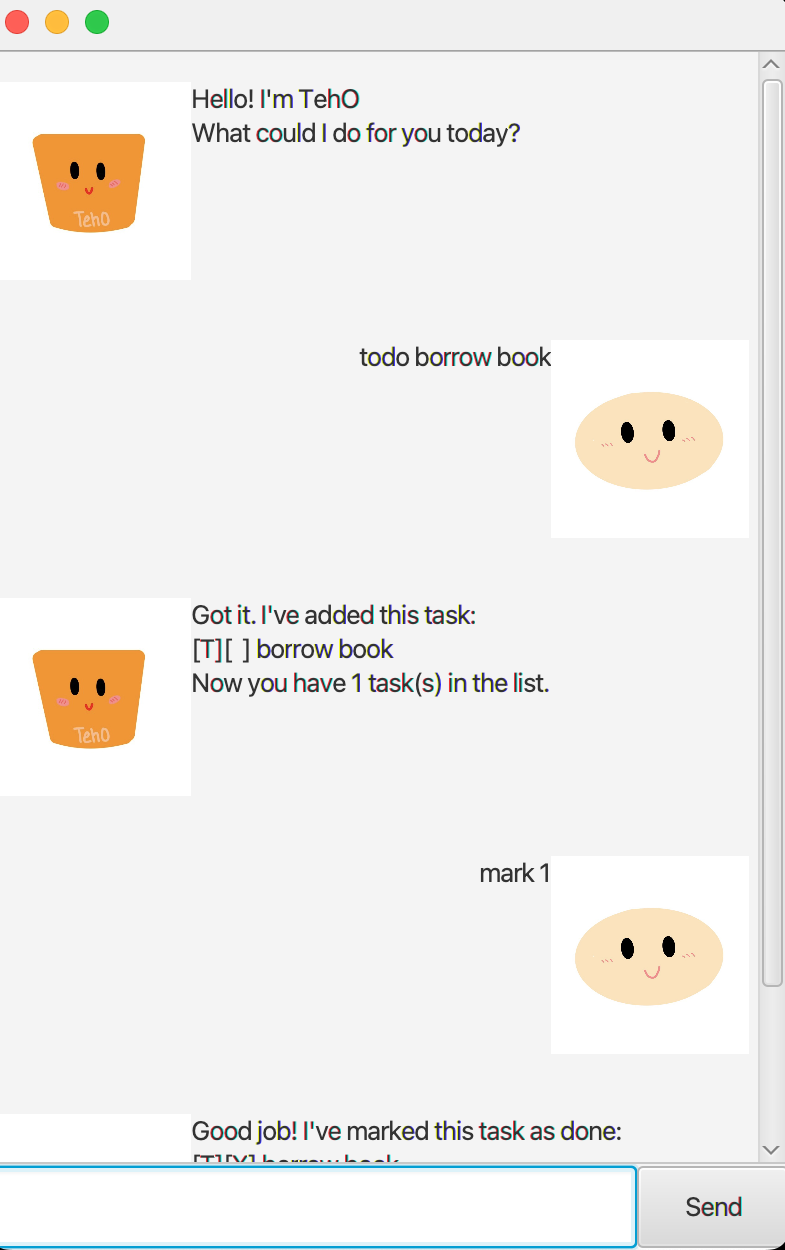
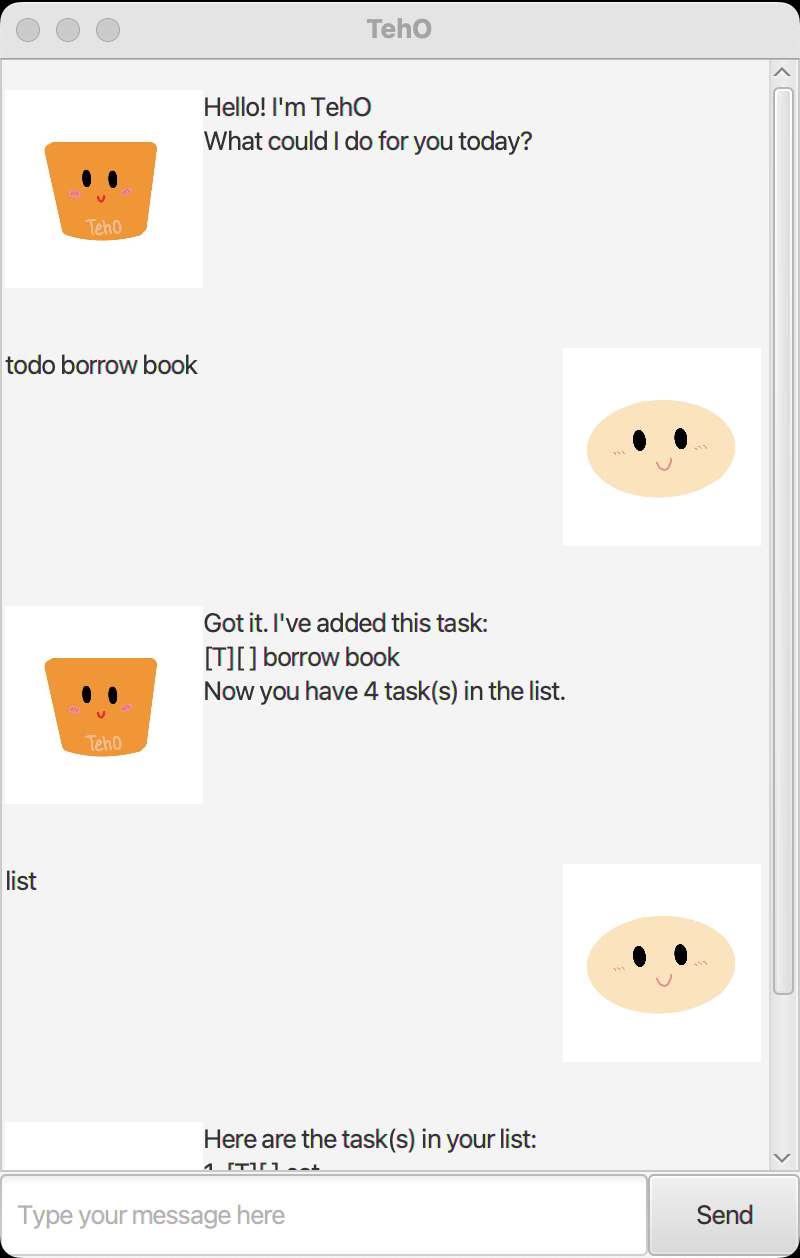
Removes some comments and includes edits for a feature
Removes some comments for clarity.

Edits to the feature "list" and "sortAlphabetically" such that
the chatbot will return a message when there is no tasks in list.

diff --git a/src/main/java/teho/main/MainWindow.java b/src/main/java/teho/main/MainWindow.java
@@ -1,6 +1,9 @@
 package teho.main;
 
 import javafx.fxml.FXML;
+import javafx.animation.PauseTransition;
+import javafx.util.Duration;
+import javafx.application.Platform;
 import javafx.scene.control.Button;
 import javafx.scene.control.ScrollPane;
 import javafx.scene.control.TextField;
@@ -8,6 +11,7 @@ import javafx.scene.image.Image;
 import javafx.scene.layout.AnchorPane;
 import javafx.scene.layout.VBox;
 import teho.exceptions.InvalidCommandException;
+import java.util.concurrent.TimeUnit;
 
 /**
  * Controller for MainWindow. Provides the layout for the other controls.
@@ -15,10 +19,6 @@ import teho.exceptions.InvalidCommandException;
 //Reused from https://se-education.org/guides/tutorials/javaFx.html
 // with minor modifications
 public class MainWindow extends AnchorPane {
-    //@FXML annotation marks a private or protected member and
-    // makes it accessible to FXMLdespite its modifier.
-    // Without the annotation, we will have to make everything
-    // public and expose our UI to unwanted changes.
     @FXML
     private ScrollPane scrollPane;
     @FXML
@@ -31,9 +31,9 @@ public class MainWindow extends AnchorPane {
     private TehO tehO;
 
     private Image userImage = new Image(this.getClass()
-            .getResourceAsStream("/images/user.png"));
+            .getResourceAsStream("/images/User.png"));
     private Image tehOImage = new Image(this.getClass()
-            .getResourceAsStream("/images/tehO.png"));
+            .getResourceAsStream("/images/TehO.png"));
 
     @FXML
     public void initialize() {
@@ -54,14 +54,24 @@ public class MainWindow extends AnchorPane {
     @FXML
     private void handleUserInput() throws InvalidCommandException {
         String input = userInput.getText();
-        String response = tehO.getResponse(input);
-        dialogContainer.getChildren().addAll(
-                DialogBox.getUserDialog(input, userImage),
-                DialogBox.getTehODialog(response, tehOImage)
-        );
-        //clear input field
-        userInput.clear();
-        //Scroll down to the end every time dialogContainer's height changes
-        dialogContainer.heightProperty().addListener((observable) -> scrollPane.setVvalue(1.0));
-    }
+            String response = tehO.getResponse(input);
+            dialogContainer.getChildren().addAll(
+                    DialogBox.getUserDialog(input, userImage),
+                    DialogBox.getTehODialog(response, tehOImage)
+            );
+            if (input.equalsIgnoreCase("bye")) {
+                //solution inspired by
+                // https://stackoverflow.com/questions/30543619/how-to-use-pausetransition-method-in-javafx
+                PauseTransition pause = new PauseTransition(Duration.seconds(1));
+                pause.setOnFinished(event -> {
+                    userInput.clear();
+                    Platform.exit();
+                });
+                pause.play();
+            }
+            //clear input field
+            userInput.clear();
+            //Scroll down to the end every time dialogContainer's height changes
+            dialogContainer.heightProperty().addListener((observable) -> scrollPane.setVvalue(1.0));
+        }
 }

diff --git a/src/main/java/teho/main/TehO.java b/src/main/java/teho/main/TehO.java
@@ -66,7 +66,7 @@ public class TehO  {
 
     public void run() {
         Scanner sc = new Scanner(System.in);
-        ui.generateHelloMessage();
+        System.out.println(ui.generateHelloMessage());
         storage.loadTasks();
         while (true) {
             String userCommand = sc.nextLine();
@@ -85,7 +85,7 @@ public class TehO  {
      * @param args Stores Java command-line arguments and is an array of type java.lang.String class.
      */
     public static void main(String[] args) {
-        new TehO("/Users/loomeilinzann/ip/text-ui-test/data/teho.txt").run();
+        new TehO("teho.txt").run();
     }
 
 
@@ -95,8 +95,6 @@ public class TehO  {
      * @param userCommand User's command containing the task to be marked.
      */
     public String markTask(String userCommand) {
-        //note that split returns a String[]
-        //parseInt returns the integer value which is represented by the argument
         int taskNumber = parseInt(userCommand.split(" ")[1]) - 1; //counting from 0
         assert taskNumber >= 0 : "taskNumber should not be negative";
         Task task = this.taskList.getTask(taskNumber);
@@ -127,7 +125,7 @@ public class TehO  {
             if (userCommand.length() <= TODO_SIZE) {
                 throw new EmptyToDoDescriptionException();
             }
-            String command = userCommand.substring(TODO_SIZE + 1); //"todo "
+            String command = userCommand.substring(TODO_SIZE + 1);
             Task task = new ToDo(command);
             this.taskList.add(task);
             return ui.generateAddToDoMessage(task, taskList);
@@ -146,7 +144,7 @@ public class TehO  {
             if (userCommand.length() <= DEADLINE_SIZE) {
                 throw new EmptyDeadlineDescriptionException();
             }
-            String commandWithDate = userCommand.substring(DEADLINE_SIZE + 1); //"deadline "
+            String commandWithDate = userCommand.substring(DEADLINE_SIZE + 1);
             String description = commandWithDate.split(" /by ")[0];
             LocalDate byDate = LocalDate.parse(commandWithDate.split(" /by ")[1]);
             Task task = new Deadline(description, byDate);
@@ -167,7 +165,7 @@ public class TehO  {
             if (userCommand.length() <= EVENT_SIZE) {
                 throw new EmptyEventDescriptionException();
             }
-            String commandWithDate = userCommand.substring(EVENT_SIZE + 1); //"event "
+            String commandWithDate = userCommand.substring(EVENT_SIZE + 1);
             String description = commandWithDate.split(" /from ")[0];
             String dates = commandWithDate.split(" /from ")[1];
             LocalDate fromDate = LocalDate.parse(dates.split(" /to ")[0]);

diff --git a/src/main/java/teho/main/Ui.java b/src/main/java/teho/main/Ui.java
@@ -2,10 +2,10 @@ package teho.main;
 import java.util.Comparator;
 import java.util.List;
 import java.util.Collections;
+
 /**
  * Deals with interactions with the user through generating messages.
  */
-
 public class Ui {
     /**
      * Generates hello message when TehO chatbot starts.
@@ -33,9 +33,14 @@ public class Ui {
      */
     public static String generateList(TaskList taskList) {
         String str = "Here are the task(s) in your list:\n";
+        int count = 0;
         for (int i = 0; i < taskList.getSize(); i++) {
+            count++;
             Task task = taskList.getTask(i);
             str += (i + 1) + ". " + task.toString() + "\n";
+        }
+        if (count == 0) {
+            str += "YAYA! There are no tasks in your list";
         }
         return str;
     }
@@ -51,9 +56,14 @@ public class Ui {
         //Solution inspired by https://www.baeldung.com/java-8-comparator-comparing
         Collections.sort(duplicatedList, Comparator.comparing(Task::getDescription));
         String str = "Here are the tasks in your list in alphabetical order:\n";
+        int count = 0;
         for (int i = 0; i < duplicatedList.size(); i++) {
+            count++;
             Task task = duplicatedList.get(i);
             str += (i + 1) + ". " + task.toString() + "\n";;
+        }
+        if (count == 0) {
+            str += "YAY! There are no tasks in your list";
         }
         return str;
     }

diff --git a/src/main/java/teho/main/Task.java b/src/main/java/teho/main/Task.java
@@ -31,7 +31,7 @@ public abstract class Task {
      * @return Status icon of task ("X" if task is done, " " if task is undone).
      */
     public String getStatusIcon() {
-        return "[" + (isDone ? "X" : "  ") + "]";
+        return "[" + (isDone ? "X" : " ") + "]";
     }
 
     /**
@@ -62,6 +62,11 @@ public abstract class Task {
         this.isDone = false;
     }
 
+    /**
+     * Returns string representation of a description of a task.
+     *
+     * @return String representation of the description of a task.
+     */
     public String getDescription() {
         return description;
     }

diff --git a/src/main/java/teho/main/Main.java b/src/main/java/teho/main/Main.java
@@ -9,7 +9,7 @@ import javafx.scene.layout.AnchorPane;
 import javafx.stage.Stage;
 
 /**
- * A GUI for Duke using FXML.
+ * A GUI for TehO using FXML.
  */
 //Reused from https://se-education.org/guides/tutorials/javaFx.html
 // with minor modifications
@@ -24,6 +24,7 @@ public class Main extends Application {
             AnchorPane ap = fxmlLoader.load();
             Scene scene = new Scene(ap);
             stage.setScene(scene);
+            stage.setTitle("TehO");
             fxmlLoader.<MainWindow>getController().setTehO(tehO);
             stage.show();
         } catch (IOException e) {

diff --git a/src/main/java/teho/main/DialogBox.java b/src/main/java/teho/main/DialogBox.java
@@ -15,8 +15,8 @@ import javafx.scene.layout.HBox;
 
 /**
  * An example of a custom control using FXML.
- * This control represents a dialog box consisting of an ImageView to represent the speaker's face and a label
- * containing text from the speaker.
+ * This control represents a dialog box consisting of an ImageView to represent
+ * the speaker's face and a label containing text from the speaker.
  */
 //Reused from https://se-education.org/guides/tutorials/javaFx.html
 // with minor modifications
